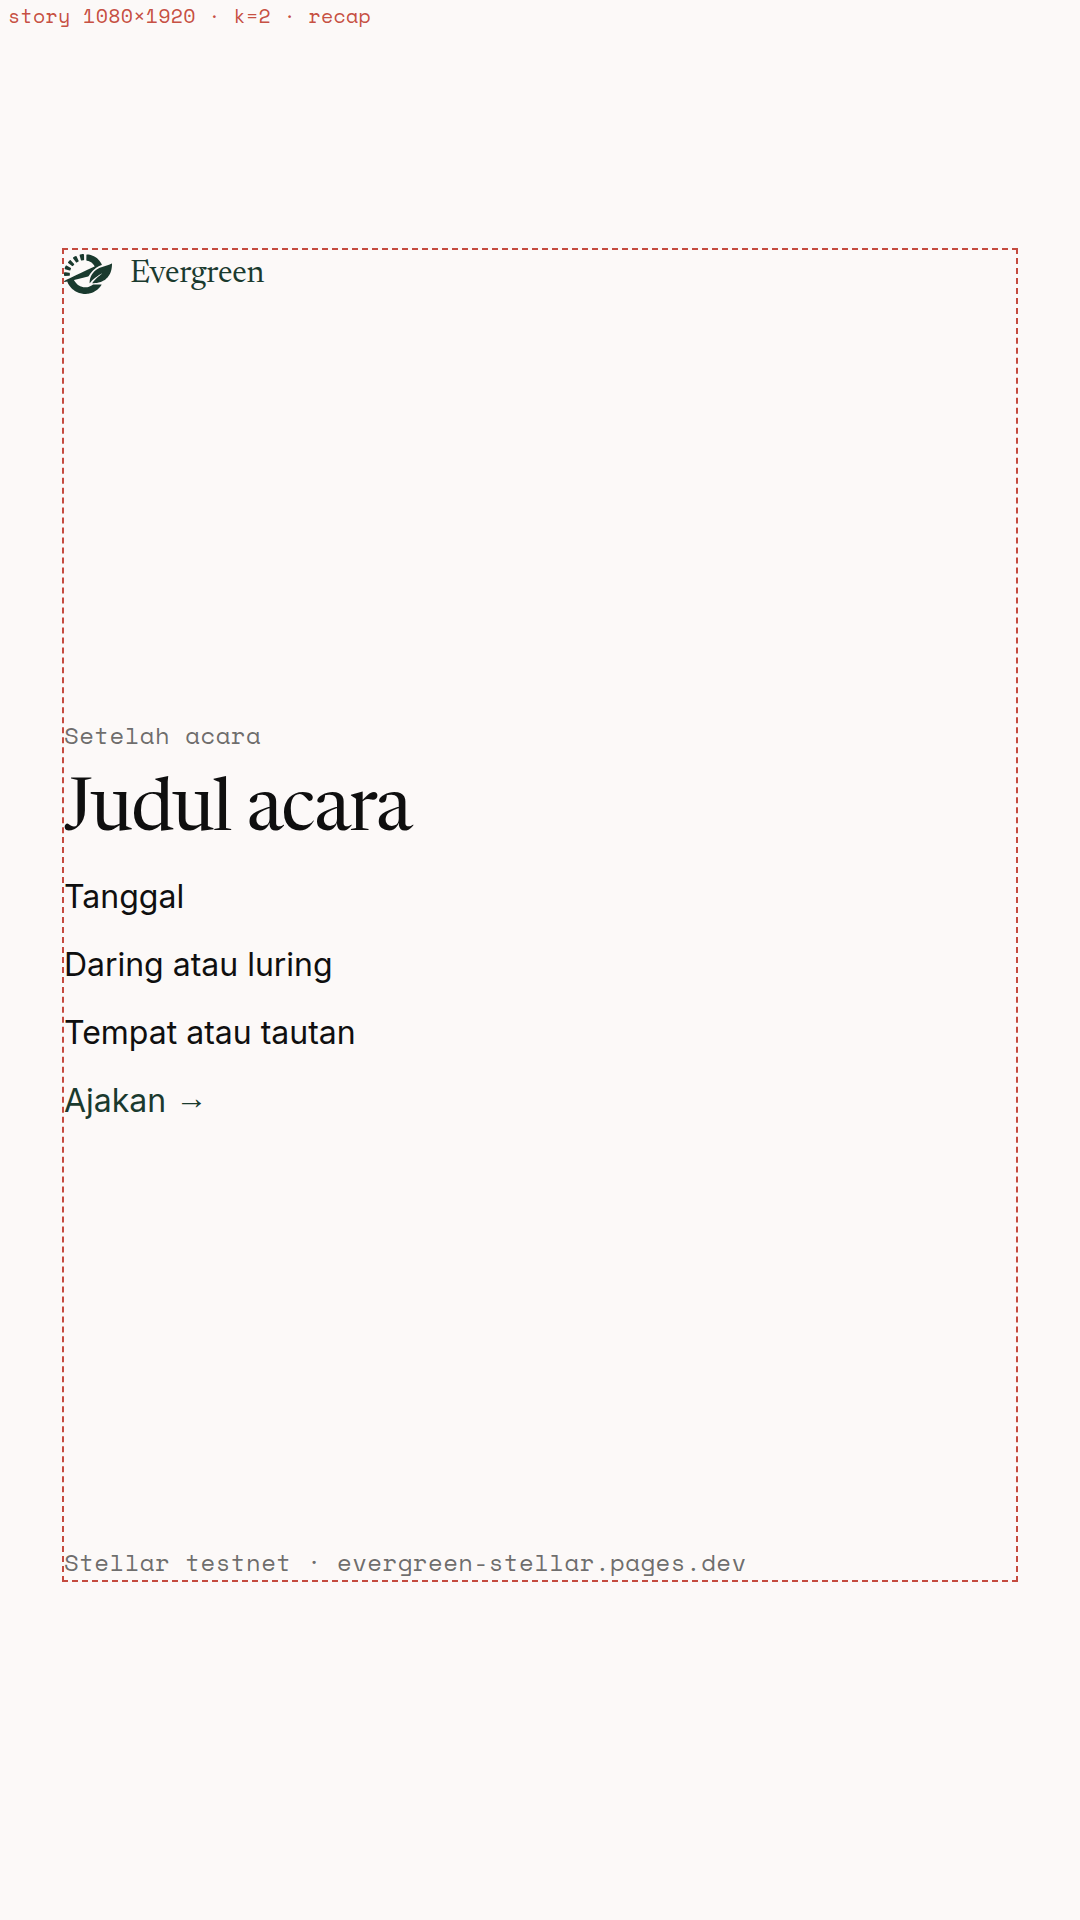
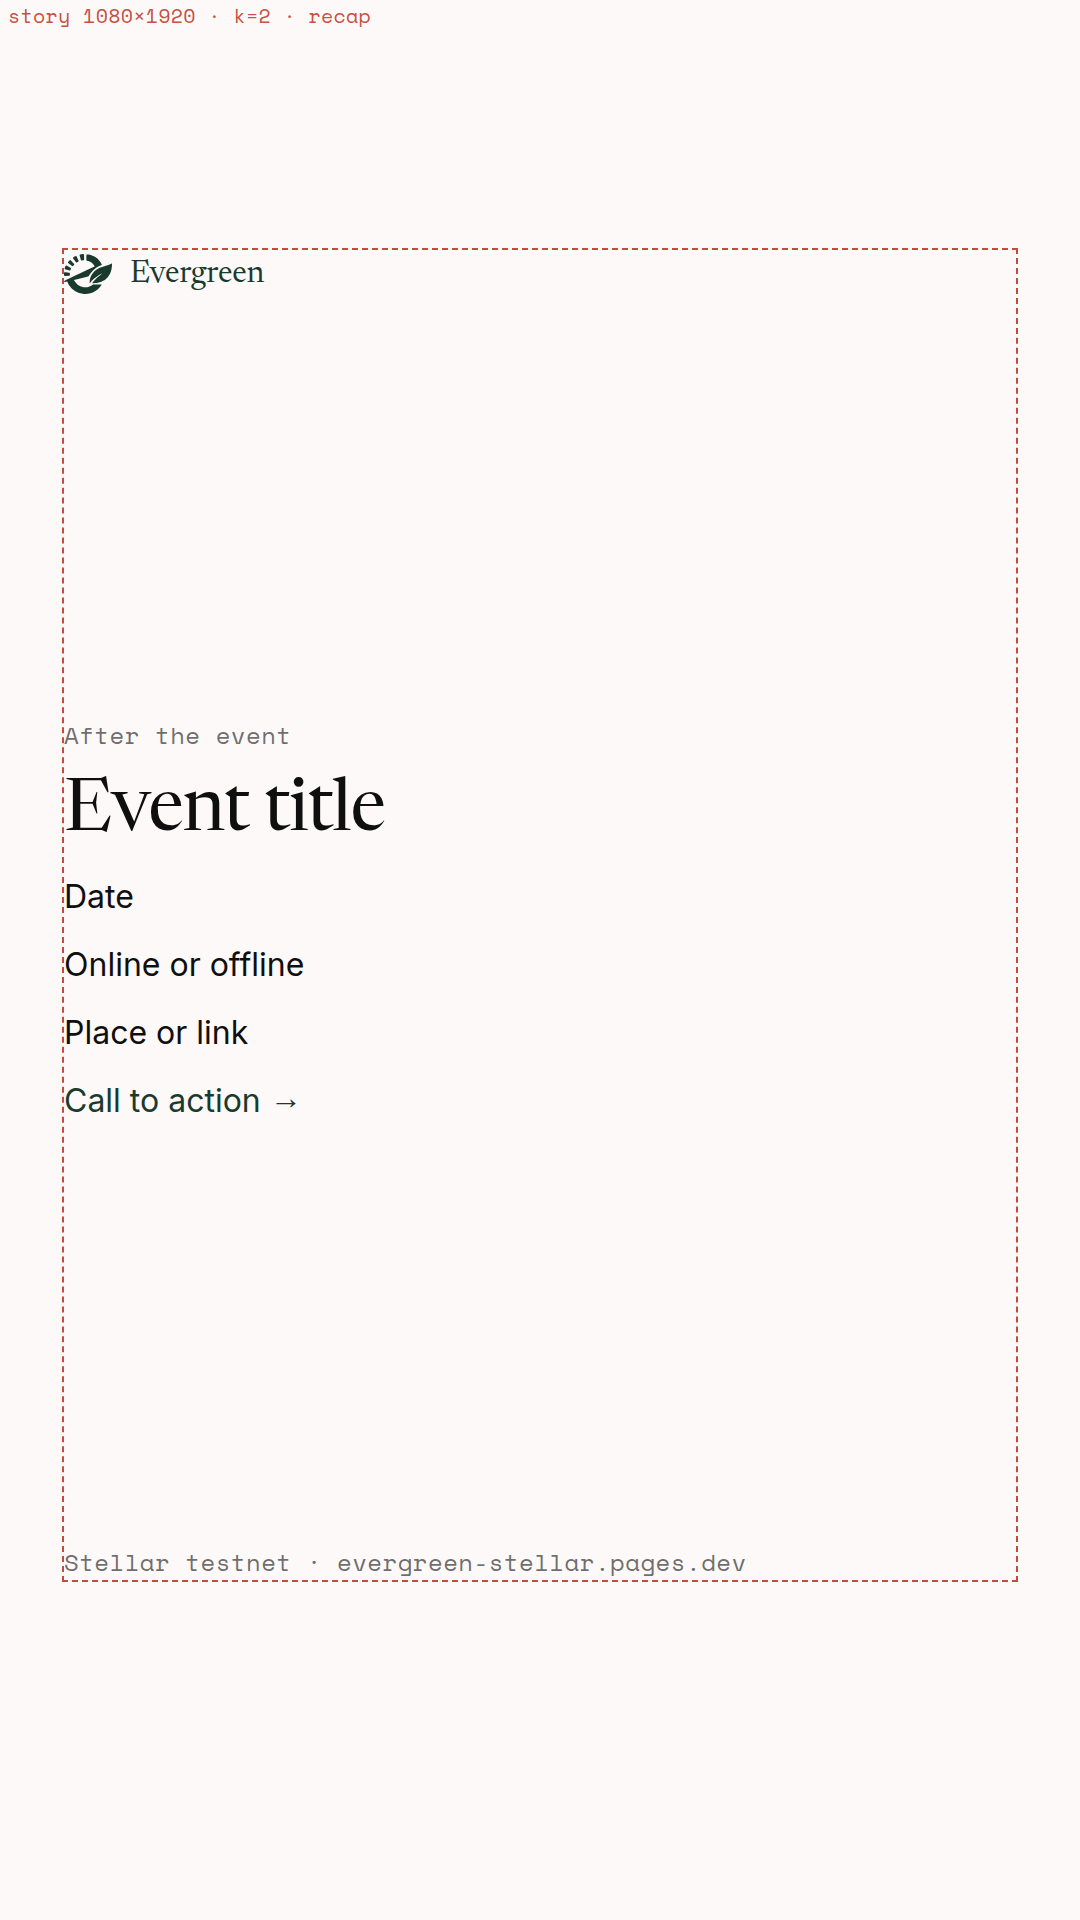
docs: switch SOW 2 workshop templates to English [PH2-E3-09]
Fatih, 15 Nov 2026: workshop slides and event cards are English.
Placeholders stay placeholders. claims-and-copy.md does not document this copy.

Changed region(s): [[0.0611, 0.375, 0.3972, 0.5938]]

diff --git a/web-reference/design-language/source/templates/event-reminder-landscape.html b/web-reference/design-language/source/templates/event-reminder-landscape.html
@@ -10,7 +10,7 @@
     <script>
       if (location.search.includes('guides')) document.documentElement.classList.add('guides');
     </script>
-    <title>Landscape 1920 × 1080 — Sehari sebelumnya</title>
+    <title>Landscape 1920 × 1080 — The day before</title>
   </head>
   <body>
     <!-- Day-before reminder. Every content line is a placeholder. Replace it; do not invent an event. -->
@@ -32,12 +32,12 @@
         </div>
         <div class="spacer"></div>
         <div style="display: grid; gap: calc(10px * var(--k)); max-width: 36ch">
-          <p class="label muted">Sehari sebelumnya</p>
-          <p class="display" style="max-width: 16ch">Judul acara</p>
-          <p class="lead">Tanggal</p>
-          <p class="lead">Daring atau luring</p>
-          <p class="lead">Tempat atau tautan</p>
-          <p class="lead" style="color: var(--pine)">Ajakan <span aria-hidden="true">→</span></p>
+          <p class="label muted">The day before</p>
+          <p class="display" style="max-width: 16ch">Event title</p>
+          <p class="lead">Date</p>
+          <p class="lead">Online or offline</p>
+          <p class="lead">Place or link</p>
+          <p class="lead" style="color: var(--pine)">Call to action <span aria-hidden="true">→</span></p>
         </div>
         <div class="spacer"></div>
         <p class="label muted">Stellar testnet · evergreen-stellar.pages.dev</p>

diff --git a/web-reference/design-language/source/templates/event-reminder-square.html b/web-reference/design-language/source/templates/event-reminder-square.html
@@ -10,7 +10,7 @@
     <script>
       if (location.search.includes('guides')) document.documentElement.classList.add('guides');
     </script>
-    <title>Square 1080 × 1080 — Sehari sebelumnya</title>
+    <title>Square 1080 × 1080 — The day before</title>
   </head>
   <body>
     <!-- Day-before reminder. Every content line is a placeholder. Replace it; do not invent an event. -->
@@ -32,12 +32,12 @@
         </div>
         <div class="spacer"></div>
         <div style="display: grid; gap: calc(10px * var(--k)); max-width: 36ch">
-          <p class="label muted">Sehari sebelumnya</p>
-          <p class="display" style="max-width: 16ch">Judul acara</p>
-          <p class="lead">Tanggal</p>
-          <p class="lead">Daring atau luring</p>
-          <p class="lead">Tempat atau tautan</p>
-          <p class="lead" style="color: var(--pine)">Ajakan <span aria-hidden="true">→</span></p>
+          <p class="label muted">The day before</p>
+          <p class="display" style="max-width: 16ch">Event title</p>
+          <p class="lead">Date</p>
+          <p class="lead">Online or offline</p>
+          <p class="lead">Place or link</p>
+          <p class="lead" style="color: var(--pine)">Call to action <span aria-hidden="true">→</span></p>
         </div>
         <div class="spacer"></div>
         <p class="label muted">Stellar testnet · evergreen-stellar.pages.dev</p>

diff --git a/web-reference/design-language/source/templates/event-reminder-story.html b/web-reference/design-language/source/templates/event-reminder-story.html
@@ -10,7 +10,7 @@
     <script>
       if (location.search.includes('guides')) document.documentElement.classList.add('guides');
     </script>
-    <title>Story 1080 × 1920 — Sehari sebelumnya</title>
+    <title>Story 1080 × 1920 — The day before</title>
   </head>
   <body>
     <!-- Day-before reminder. Every content line is a placeholder. Replace it; do not invent an event. -->
@@ -32,12 +32,12 @@
         </div>
         <div class="spacer"></div>
         <div style="display: grid; gap: calc(10px * var(--k)); max-width: 36ch">
-          <p class="label muted">Sehari sebelumnya</p>
-          <p class="display" style="max-width: 16ch">Judul acara</p>
-          <p class="lead">Tanggal</p>
-          <p class="lead">Daring atau luring</p>
-          <p class="lead">Tempat atau tautan</p>
-          <p class="lead" style="color: var(--pine)">Ajakan <span aria-hidden="true">→</span></p>
+          <p class="label muted">The day before</p>
+          <p class="display" style="max-width: 16ch">Event title</p>
+          <p class="lead">Date</p>
+          <p class="lead">Online or offline</p>
+          <p class="lead">Place or link</p>
+          <p class="lead" style="color: var(--pine)">Call to action <span aria-hidden="true">→</span></p>
         </div>
         <div class="spacer"></div>
         <p class="label muted">Stellar testnet · evergreen-stellar.pages.dev</p>

diff --git a/web-reference/design-language/source/templates/event-recap-landscape.html b/web-reference/design-language/source/templates/event-recap-landscape.html
@@ -10,7 +10,7 @@
     <script>
       if (location.search.includes('guides')) document.documentElement.classList.add('guides');
     </script>
-    <title>Landscape 1920 × 1080 — Setelah acara</title>
+    <title>Landscape 1920 × 1080 — After the event</title>
   </head>
   <body>
     <!-- Post-event recap. Every content line is a placeholder. No attendance figure, no fee. -->
@@ -32,12 +32,12 @@
         </div>
         <div class="spacer"></div>
         <div style="display: grid; gap: calc(10px * var(--k)); max-width: 36ch">
-          <p class="label muted">Setelah acara</p>
-          <p class="display" style="max-width: 16ch">Judul acara</p>
-          <p class="lead">Tanggal</p>
-          <p class="lead">Daring atau luring</p>
-          <p class="lead">Tempat atau tautan</p>
-          <p class="lead" style="color: var(--pine)">Ajakan <span aria-hidden="true">→</span></p>
+          <p class="label muted">After the event</p>
+          <p class="display" style="max-width: 16ch">Event title</p>
+          <p class="lead">Date</p>
+          <p class="lead">Online or offline</p>
+          <p class="lead">Place or link</p>
+          <p class="lead" style="color: var(--pine)">Call to action <span aria-hidden="true">→</span></p>
         </div>
         <div class="spacer"></div>
         <p class="label muted">Stellar testnet · evergreen-stellar.pages.dev</p>

diff --git a/web-reference/design-language/source/templates/event-reminder-og.html b/web-reference/design-language/source/templates/event-reminder-og.html
@@ -10,7 +10,7 @@
     <script>
       if (location.search.includes('guides')) document.documentElement.classList.add('guides');
     </script>
-    <title>Link card 1200 × 630 — Sehari sebelumnya</title>
+    <title>Link card 1200 × 630 — The day before</title>
   </head>
   <body>
     <!-- Day-before reminder. Every content line is a placeholder. Replace it; do not invent an event. -->
@@ -32,12 +32,12 @@
         </div>
         <div class="spacer"></div>
         <div style="display: grid; gap: 12px; max-width: 540px">
-          <p class="label muted">Sehari sebelumnya</p>
-          <p class="display" style="max-width: 540px">Judul acara</p>
-          <p class="body">Tanggal</p>
-          <p class="body">Daring atau luring</p>
-          <p class="body">Tempat atau tautan</p>
-          <p class="body" style="color: var(--pine)">Ajakan <span aria-hidden="true">→</span></p>
+          <p class="label muted">The day before</p>
+          <p class="display" style="max-width: 540px">Event title</p>
+          <p class="body">Date</p>
+          <p class="body">Online or offline</p>
+          <p class="body">Place or link</p>
+          <p class="body" style="color: var(--pine)">Call to action <span aria-hidden="true">→</span></p>
           <p class="label muted">Stellar testnet</p>
           <p class="label muted">evergreen-stellar.pages.dev</p>
         </div>

diff --git a/web-reference/design-language/source/templates/event-recap-square.html b/web-reference/design-language/source/templates/event-recap-square.html
@@ -10,7 +10,7 @@
     <script>
       if (location.search.includes('guides')) document.documentElement.classList.add('guides');
     </script>
-    <title>Square 1080 × 1080 — Setelah acara</title>
+    <title>Square 1080 × 1080 — After the event</title>
   </head>
   <body>
     <!-- Post-event recap. Every content line is a placeholder. No attendance figure, no fee. -->
@@ -32,12 +32,12 @@
         </div>
         <div class="spacer"></div>
         <div style="display: grid; gap: calc(10px * var(--k)); max-width: 36ch">
-          <p class="label muted">Setelah acara</p>
-          <p class="display" style="max-width: 16ch">Judul acara</p>
-          <p class="lead">Tanggal</p>
-          <p class="lead">Daring atau luring</p>
-          <p class="lead">Tempat atau tautan</p>
-          <p class="lead" style="color: var(--pine)">Ajakan <span aria-hidden="true">→</span></p>
+          <p class="label muted">After the event</p>
+          <p class="display" style="max-width: 16ch">Event title</p>
+          <p class="lead">Date</p>
+          <p class="lead">Online or offline</p>
+          <p class="lead">Place or link</p>
+          <p class="lead" style="color: var(--pine)">Call to action <span aria-hidden="true">→</span></p>
         </div>
         <div class="spacer"></div>
         <p class="label muted">Stellar testnet · evergreen-stellar.pages.dev</p>

diff --git a/web-reference/design-language/source/templates/event-recap-story.html b/web-reference/design-language/source/templates/event-recap-story.html
@@ -10,7 +10,7 @@
     <script>
       if (location.search.includes('guides')) document.documentElement.classList.add('guides');
     </script>
-    <title>Story 1080 × 1920 — Setelah acara</title>
+    <title>Story 1080 × 1920 — After the event</title>
   </head>
   <body>
     <!-- Post-event recap. Every content line is a placeholder. No attendance figure, no fee. -->
@@ -32,12 +32,12 @@
         </div>
         <div class="spacer"></div>
         <div style="display: grid; gap: calc(10px * var(--k)); max-width: 36ch">
-          <p class="label muted">Setelah acara</p>
-          <p class="display" style="max-width: 16ch">Judul acara</p>
-          <p class="lead">Tanggal</p>
-          <p class="lead">Daring atau luring</p>
-          <p class="lead">Tempat atau tautan</p>
-          <p class="lead" style="color: var(--pine)">Ajakan <span aria-hidden="true">→</span></p>
+          <p class="label muted">After the event</p>
+          <p class="display" style="max-width: 16ch">Event title</p>
+          <p class="lead">Date</p>
+          <p class="lead">Online or offline</p>
+          <p class="lead">Place or link</p>
+          <p class="lead" style="color: var(--pine)">Call to action <span aria-hidden="true">→</span></p>
         </div>
         <div class="spacer"></div>
         <p class="label muted">Stellar testnet · evergreen-stellar.pages.dev</p>

diff --git a/web-reference/design-language/source/templates/event-announce-landscape.html b/web-reference/design-language/source/templates/event-announce-landscape.html
@@ -10,7 +10,7 @@
     <script>
       if (location.search.includes('guides')) document.documentElement.classList.add('guides');
     </script>
-    <title>Landscape 1920 × 1080 — Pengumuman</title>
+    <title>Landscape 1920 × 1080 — Announcement</title>
   </head>
   <body>
     <!-- Announcement. Every content line is a placeholder. Replace it; do not invent an event. -->
@@ -32,12 +32,12 @@
         </div>
         <div class="spacer"></div>
         <div style="display: grid; gap: calc(10px * var(--k)); max-width: 36ch">
-          <p class="label muted">Pengumuman</p>
-          <p class="display" style="max-width: 16ch">Judul acara</p>
-          <p class="lead">Tanggal</p>
-          <p class="lead">Daring atau luring</p>
-          <p class="lead">Tempat atau tautan</p>
-          <p class="lead" style="color: var(--pine)">Ajakan <span aria-hidden="true">→</span></p>
+          <p class="label muted">Announcement</p>
+          <p class="display" style="max-width: 16ch">Event title</p>
+          <p class="lead">Date</p>
+          <p class="lead">Online or offline</p>
+          <p class="lead">Place or link</p>
+          <p class="lead" style="color: var(--pine)">Call to action <span aria-hidden="true">→</span></p>
         </div>
         <div class="spacer"></div>
         <p class="label muted">Stellar testnet · evergreen-stellar.pages.dev</p>

diff --git a/web-reference/design-language/source/templates/event-recap-og.html b/web-reference/design-language/source/templates/event-recap-og.html
@@ -10,7 +10,7 @@
     <script>
       if (location.search.includes('guides')) document.documentElement.classList.add('guides');
     </script>
-    <title>Link card 1200 × 630 — Setelah acara</title>
+    <title>Link card 1200 × 630 — After the event</title>
   </head>
   <body>
     <!-- Post-event recap. Every content line is a placeholder. No attendance figure, no fee. -->
@@ -32,12 +32,12 @@
         </div>
         <div class="spacer"></div>
         <div style="display: grid; gap: 12px; max-width: 540px">
-          <p class="label muted">Setelah acara</p>
-          <p class="display" style="max-width: 540px">Judul acara</p>
-          <p class="body">Tanggal</p>
-          <p class="body">Daring atau luring</p>
-          <p class="body">Tempat atau tautan</p>
-          <p class="body" style="color: var(--pine)">Ajakan <span aria-hidden="true">→</span></p>
+          <p class="label muted">After the event</p>
+          <p class="display" style="max-width: 540px">Event title</p>
+          <p class="body">Date</p>
+          <p class="body">Online or offline</p>
+          <p class="body">Place or link</p>
+          <p class="body" style="color: var(--pine)">Call to action <span aria-hidden="true">→</span></p>
           <p class="label muted">Stellar testnet</p>
           <p class="label muted">evergreen-stellar.pages.dev</p>
         </div>

diff --git a/web-reference/design-language/source/templates/event-announce-square.html b/web-reference/design-language/source/templates/event-announce-square.html
@@ -10,7 +10,7 @@
     <script>
       if (location.search.includes('guides')) document.documentElement.classList.add('guides');
     </script>
-    <title>Square 1080 × 1080 — Pengumuman</title>
+    <title>Square 1080 × 1080 — Announcement</title>
   </head>
   <body>
     <!-- Announcement. Every content line is a placeholder. Replace it; do not invent an event. -->
@@ -32,12 +32,12 @@
         </div>
         <div class="spacer"></div>
         <div style="display: grid; gap: calc(10px * var(--k)); max-width: 36ch">
-          <p class="label muted">Pengumuman</p>
-          <p class="display" style="max-width: 16ch">Judul acara</p>
-          <p class="lead">Tanggal</p>
-          <p class="lead">Daring atau luring</p>
-          <p class="lead">Tempat atau tautan</p>
-          <p class="lead" style="color: var(--pine)">Ajakan <span aria-hidden="true">→</span></p>
+          <p class="label muted">Announcement</p>
+          <p class="display" style="max-width: 16ch">Event title</p>
+          <p class="lead">Date</p>
+          <p class="lead">Online or offline</p>
+          <p class="lead">Place or link</p>
+          <p class="lead" style="color: var(--pine)">Call to action <span aria-hidden="true">→</span></p>
         </div>
         <div class="spacer"></div>
         <p class="label muted">Stellar testnet · evergreen-stellar.pages.dev</p>

diff --git a/web-reference/design-language/source/templates/event-announce-story.html b/web-reference/design-language/source/templates/event-announce-story.html
@@ -10,7 +10,7 @@
     <script>
       if (location.search.includes('guides')) document.documentElement.classList.add('guides');
     </script>
-    <title>Story 1080 × 1920 — Pengumuman</title>
+    <title>Story 1080 × 1920 — Announcement</title>
   </head>
   <body>
     <!-- Announcement. Every content line is a placeholder. Replace it; do not invent an event. -->
@@ -32,12 +32,12 @@
         </div>
         <div class="spacer"></div>
         <div style="display: grid; gap: calc(10px * var(--k)); max-width: 36ch">
-          <p class="label muted">Pengumuman</p>
-          <p class="display" style="max-width: 16ch">Judul acara</p>
-          <p class="lead">Tanggal</p>
-          <p class="lead">Daring atau luring</p>
-          <p class="lead">Tempat atau tautan</p>
-          <p class="lead" style="color: var(--pine)">Ajakan <span aria-hidden="true">→</span></p>
+          <p class="label muted">Announcement</p>
+          <p class="display" style="max-width: 16ch">Event title</p>
+          <p class="lead">Date</p>
+          <p class="lead">Online or offline</p>
+          <p class="lead">Place or link</p>
+          <p class="lead" style="color: var(--pine)">Call to action <span aria-hidden="true">→</span></p>
         </div>
         <div class="spacer"></div>
         <p class="label muted">Stellar testnet · evergreen-stellar.pages.dev</p>

diff --git a/web-reference/design-language/source/templates/event-announce-og.html b/web-reference/design-language/source/templates/event-announce-og.html
@@ -10,7 +10,7 @@
     <script>
       if (location.search.includes('guides')) document.documentElement.classList.add('guides');
     </script>
-    <title>Link card 1200 × 630 — Pengumuman</title>
+    <title>Link card 1200 × 630 — Announcement</title>
   </head>
   <body>
     <!-- Announcement. Every content line is a placeholder. Replace it; do not invent an event. -->
@@ -32,12 +32,12 @@
         </div>
         <div class="spacer"></div>
         <div style="display: grid; gap: 12px; max-width: 540px">
-          <p class="label muted">Pengumuman</p>
-          <p class="display" style="max-width: 540px">Judul acara</p>
-          <p class="body">Tanggal</p>
-          <p class="body">Daring atau luring</p>
-          <p class="body">Tempat atau tautan</p>
-          <p class="body" style="color: var(--pine)">Ajakan <span aria-hidden="true">→</span></p>
+          <p class="label muted">Announcement</p>
+          <p class="display" style="max-width: 540px">Event title</p>
+          <p class="body">Date</p>
+          <p class="body">Online or offline</p>
+          <p class="body">Place or link</p>
+          <p class="body" style="color: var(--pine)">Call to action <span aria-hidden="true">→</span></p>
           <p class="label muted">Stellar testnet</p>
           <p class="label muted">evergreen-stellar.pages.dev</p>
         </div>
